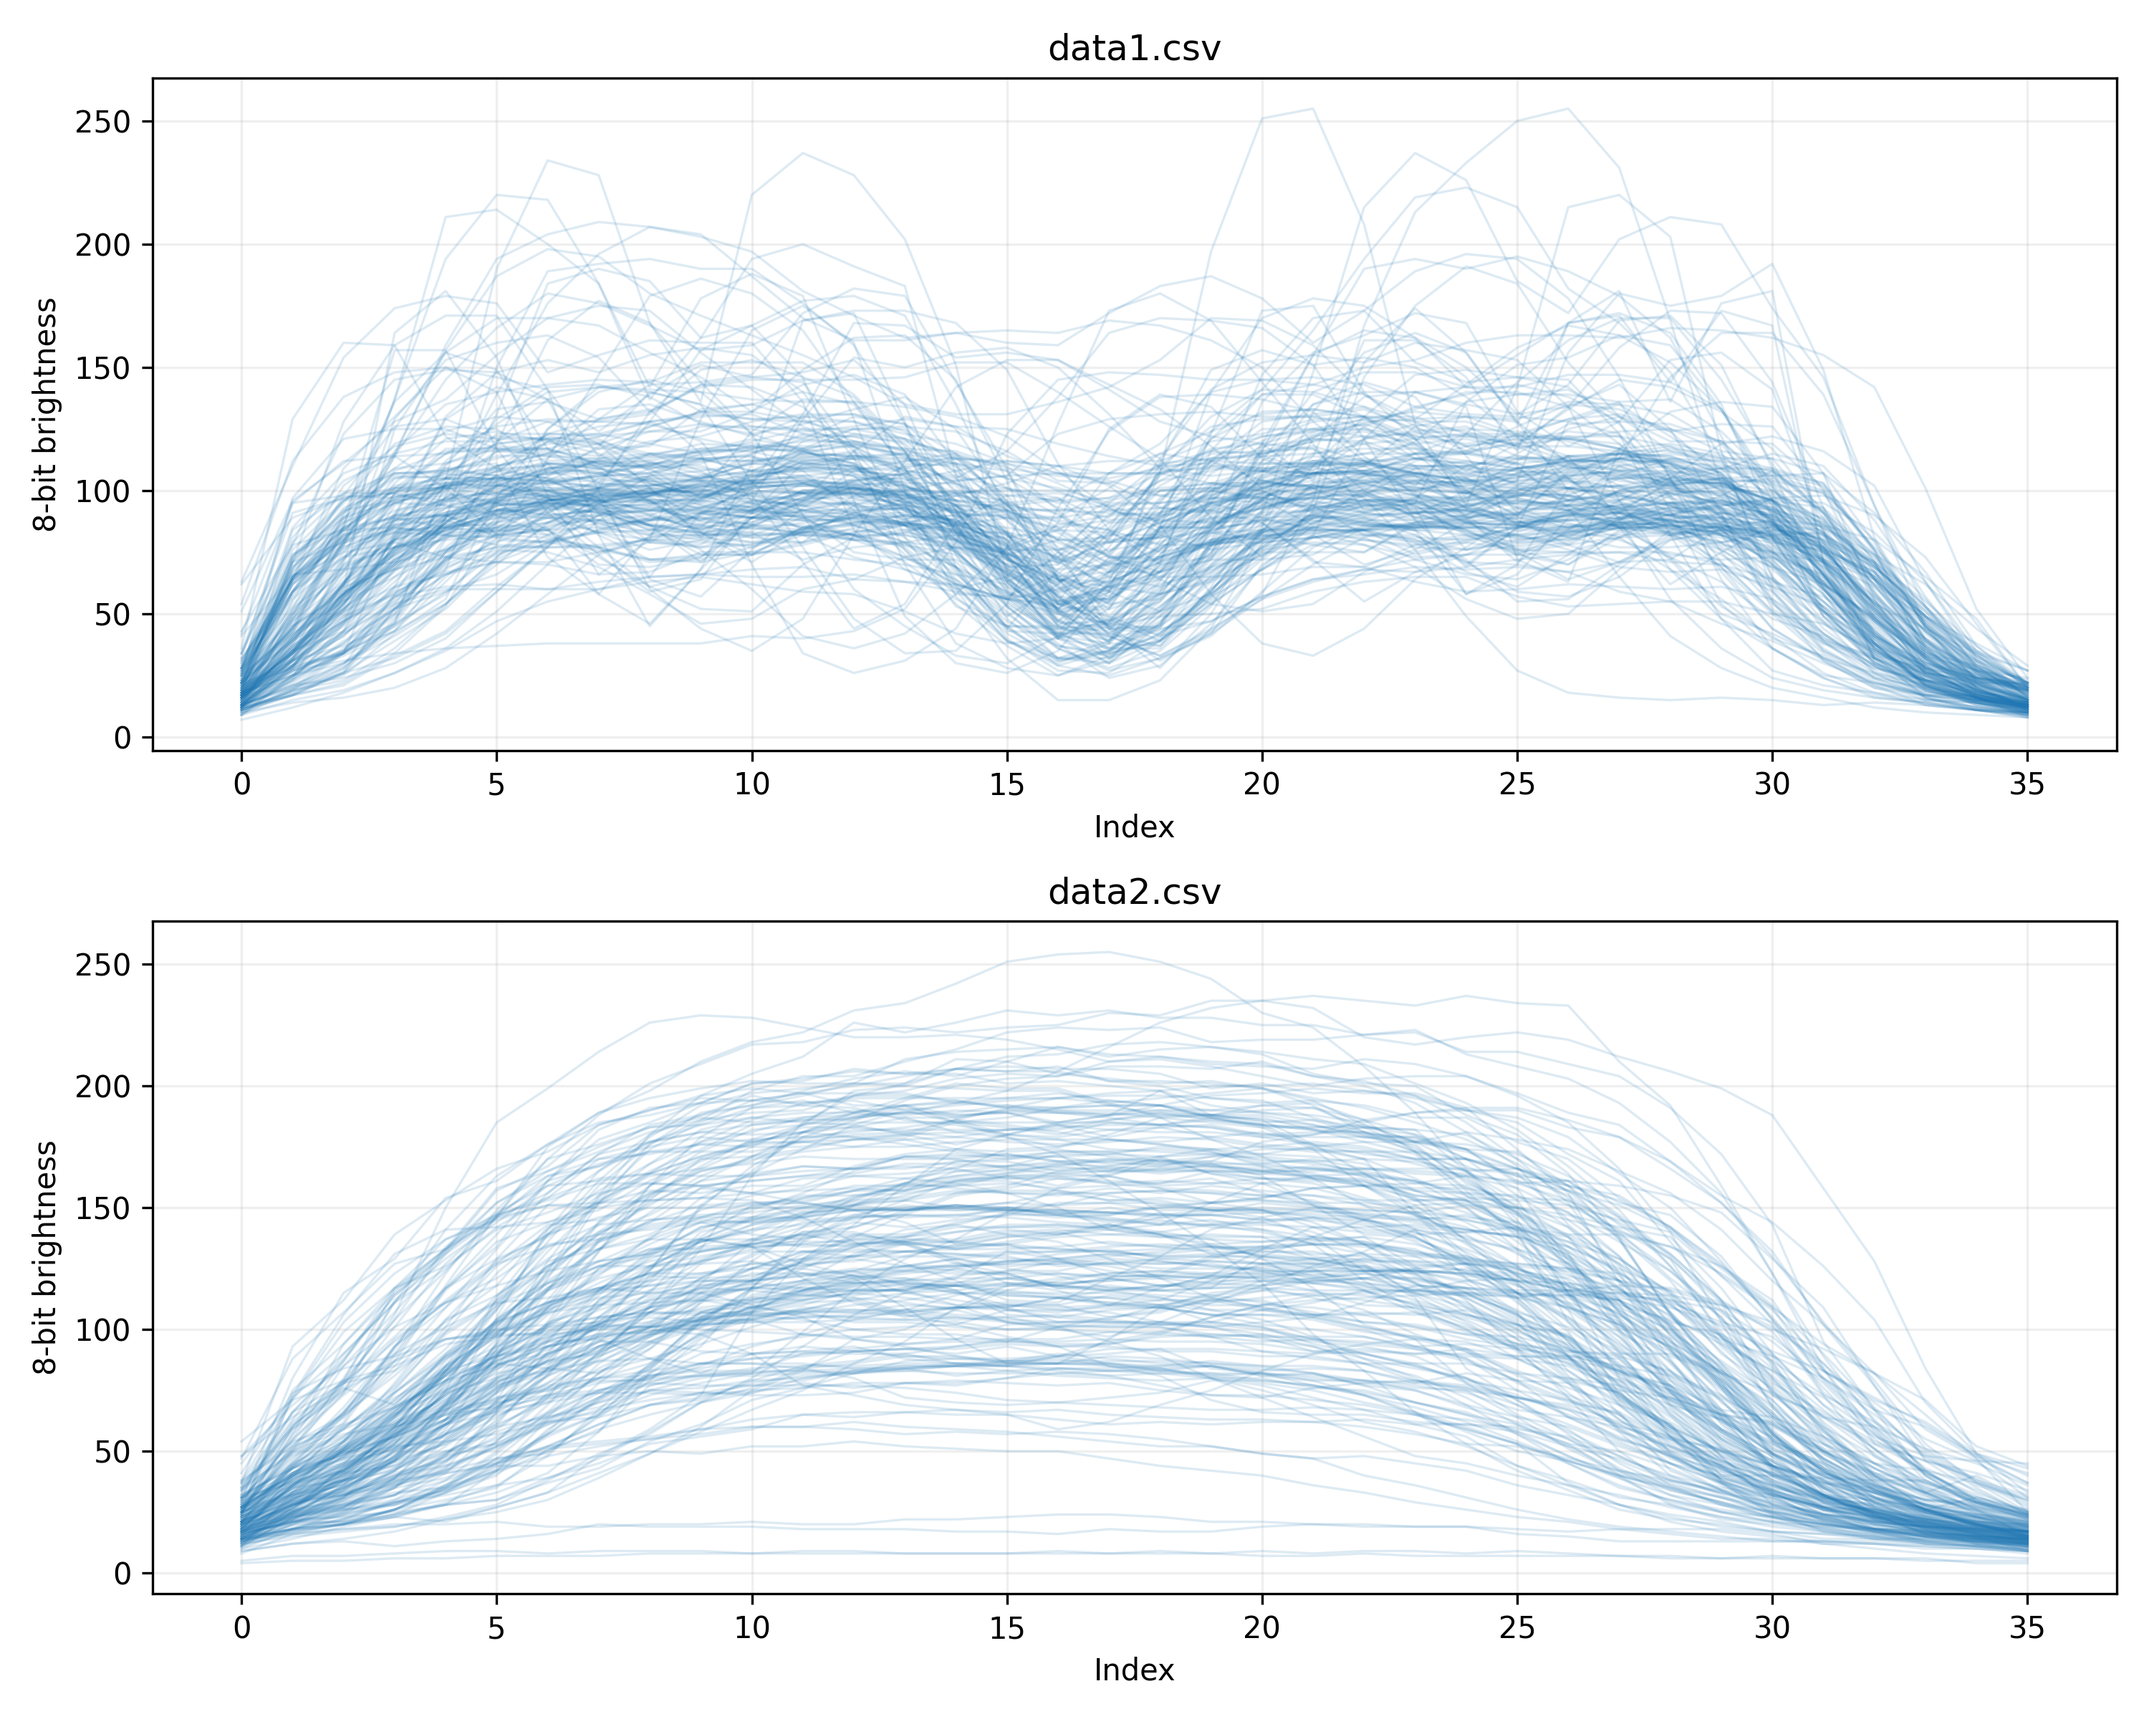
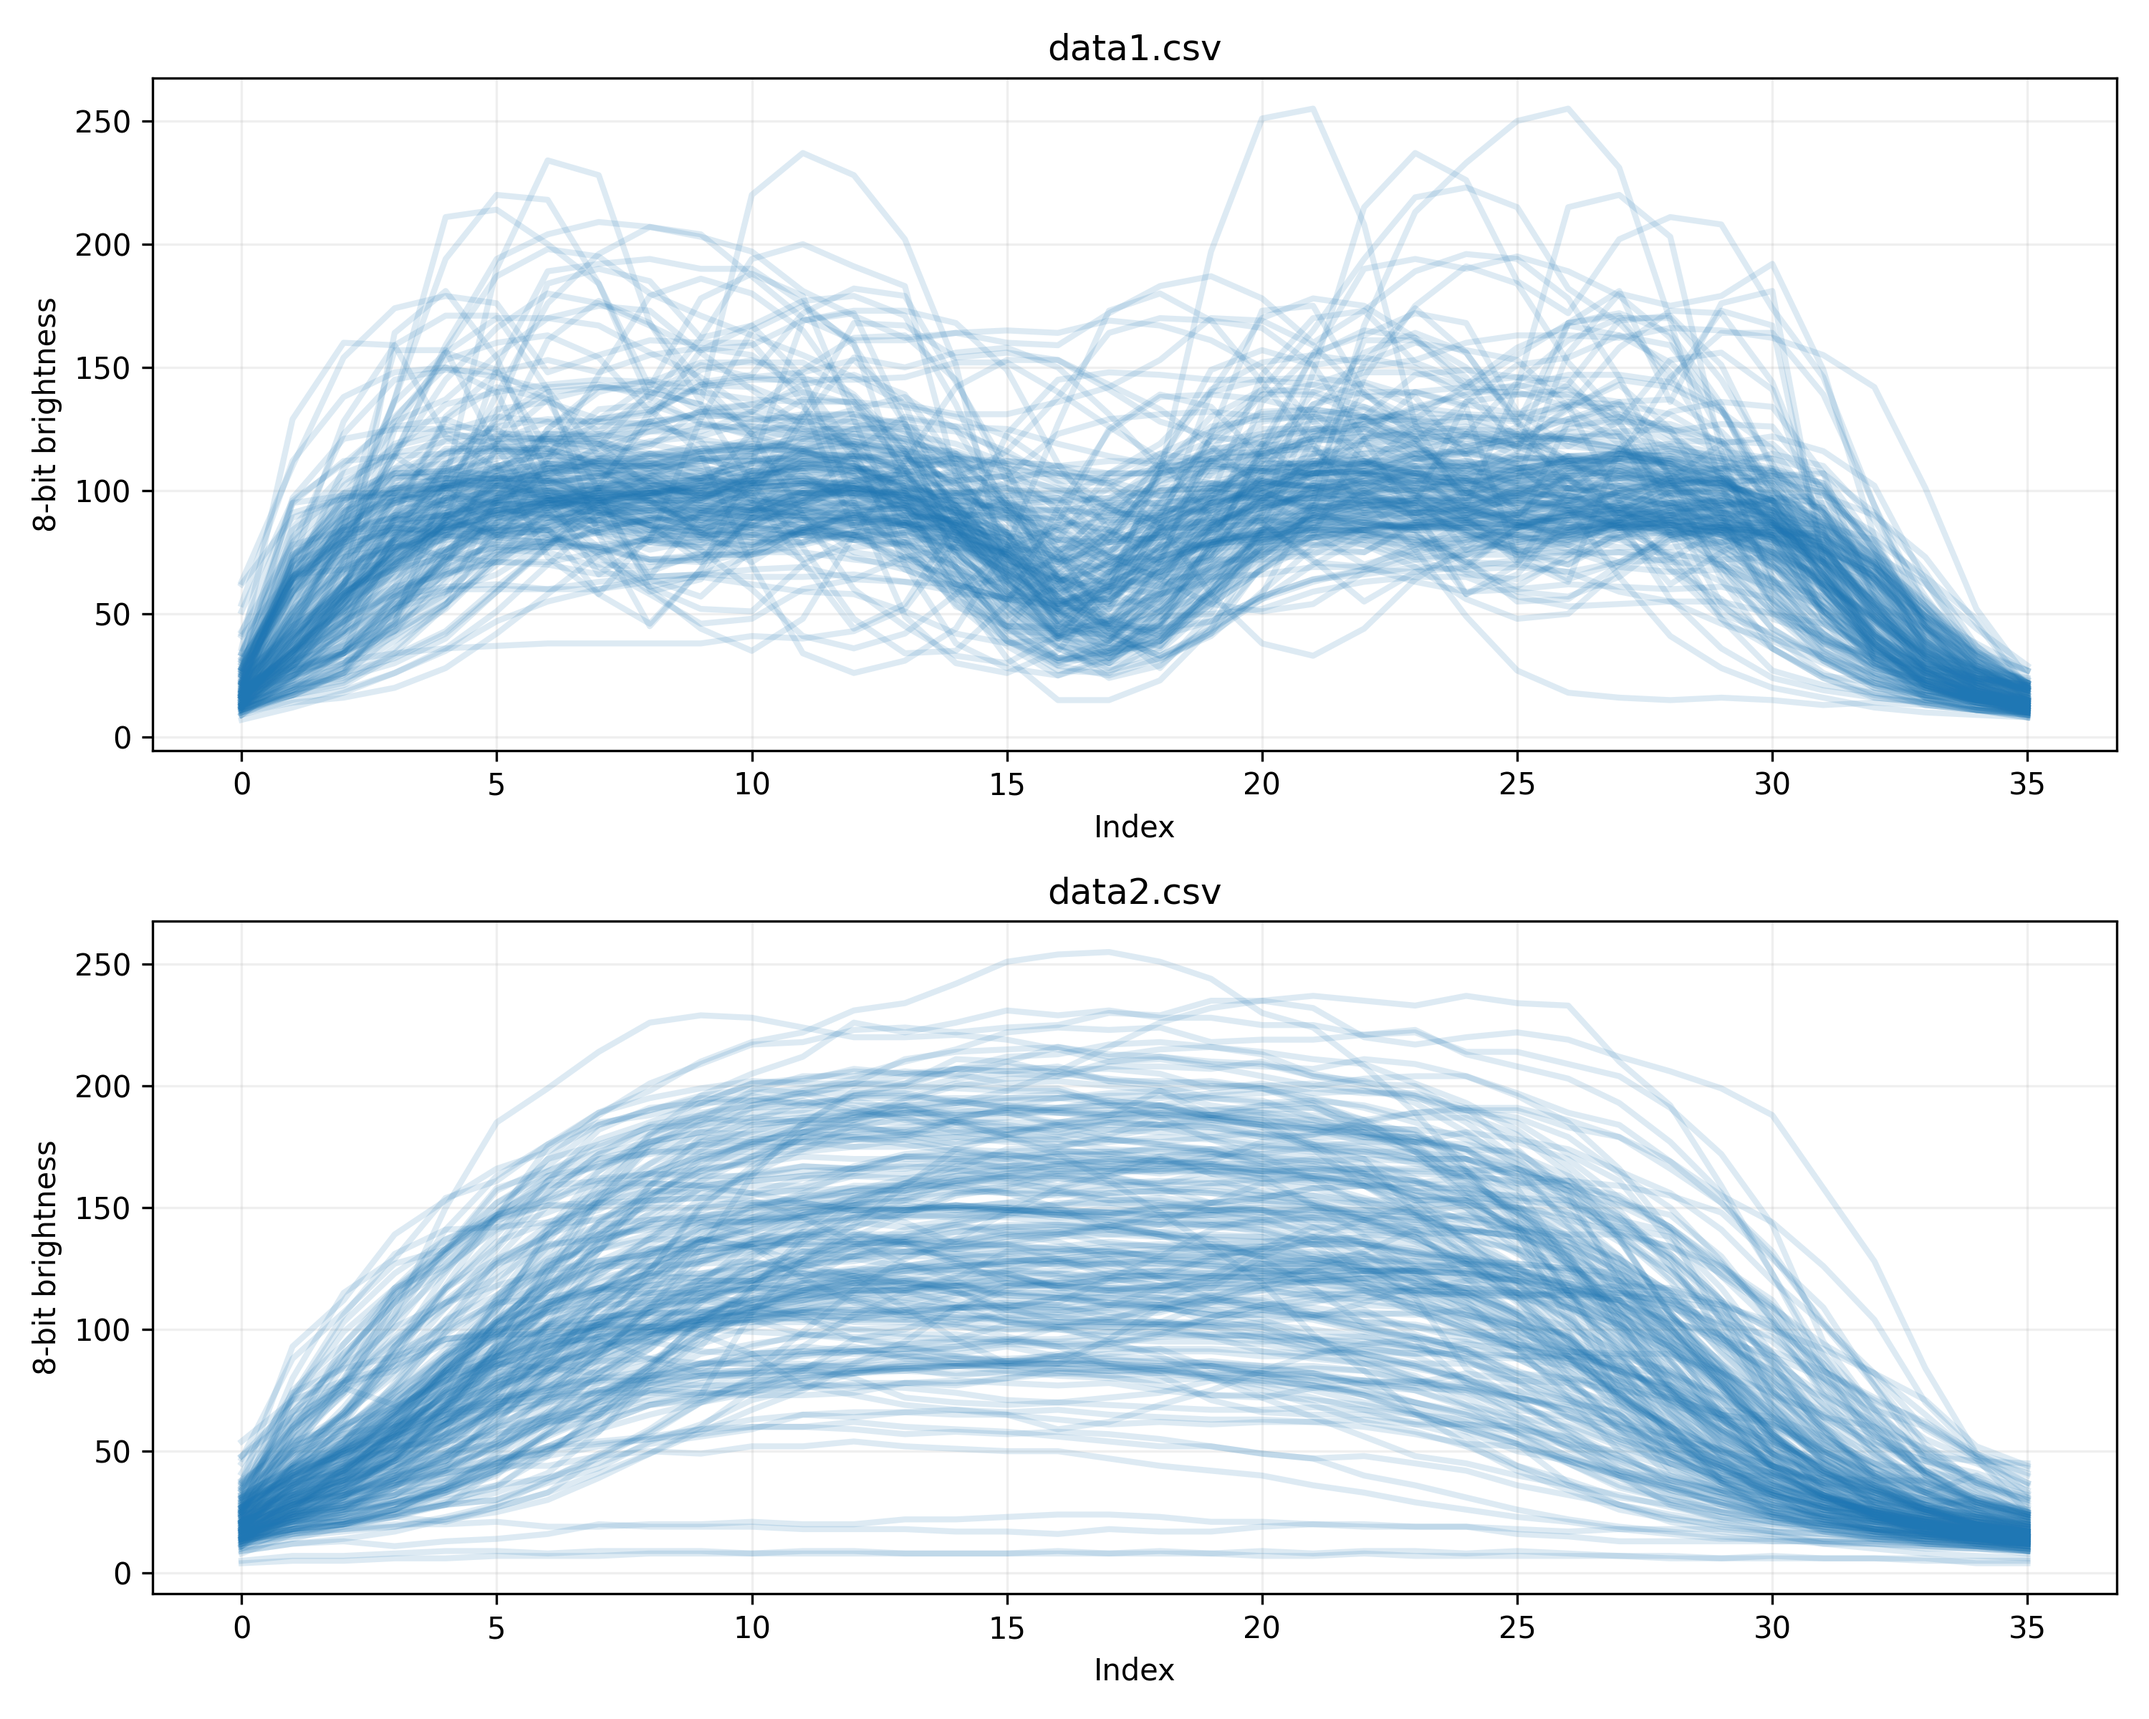
linwidth

Changed region(s): [[0.093, 0.5625, 0.961, 0.9062], [0.093, 0.0938, 0.961, 0.4375]]

diff --git a/main.py b/main.py
@@ -23,7 +23,7 @@ class HU:
     def plot_overlay(cls, ax: plt.Axes, series: list[list[float]], title: str) -> None:
         for values in series:
             x = range(len(values))
-            ax.plot(x, values, color="tab:blue", alpha=0.15, linewidth=5)
+            ax.plot(x, values, color="tab:blue", alpha=0.15, linewidth=2)
         ax.set_title(title)
         ax.set_xlabel("Index")
         ax.set_ylabel("8-bit brightness")
